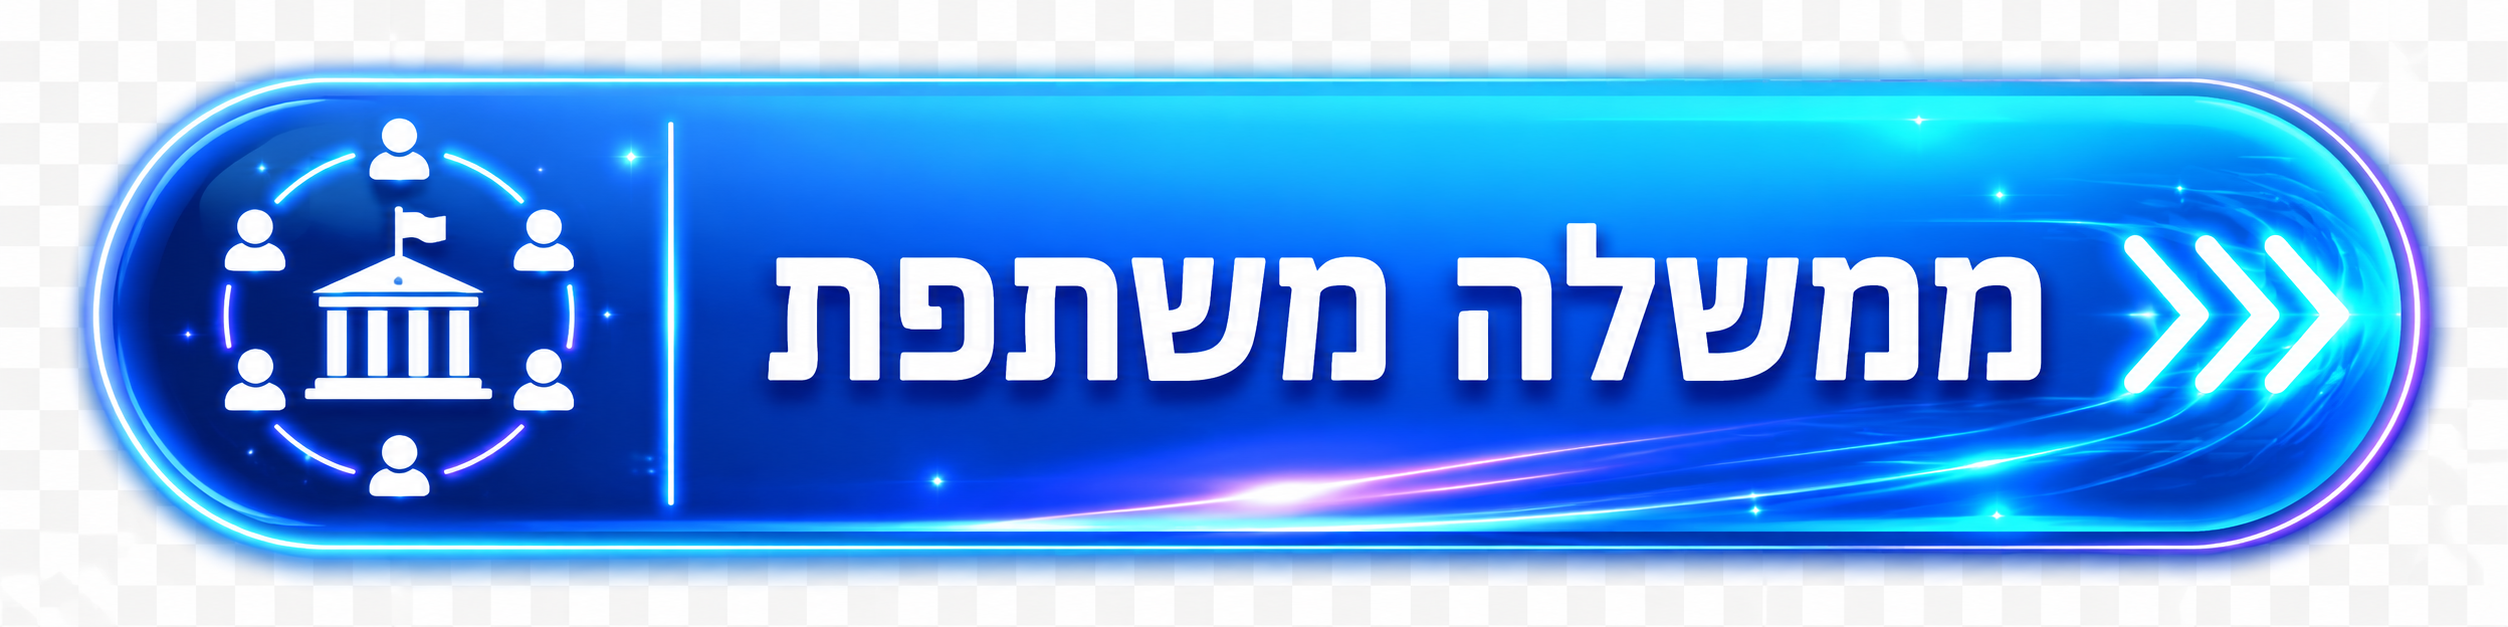
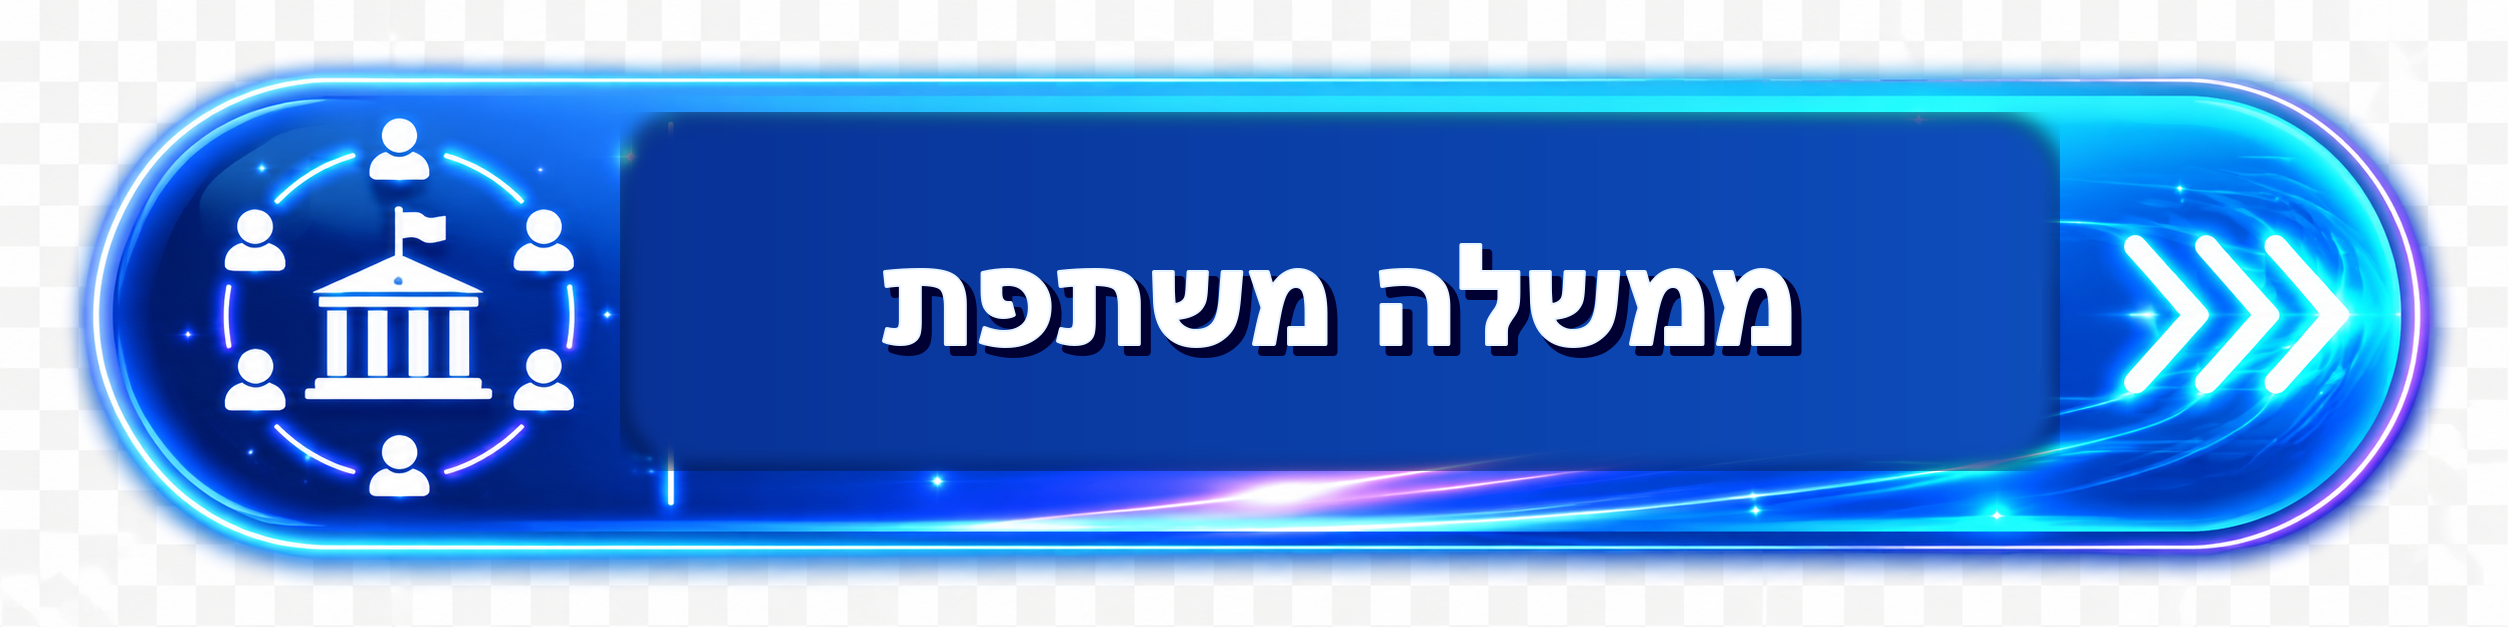
Refine home headline and card typography

Changed region(s): [[0.2488, 0.1515, 0.8397, 0.7576]]

diff --git a/client/src/pages/Home.tsx b/client/src/pages/Home.tsx
@@ -492,9 +492,9 @@ ${candidateSenderEmail.trim()}`
           <section className="container flex min-h-[calc(100vh-4rem)] flex-col justify-center gap-8 py-10">
             <div className="mx-auto max-w-4xl text-center">
               <h1 className="text-5xl font-black leading-tight text-[#14213d] sm:text-7xl">
-                הציבור לא רק בוחר
+                הציבור לא רק בוחר,
                 <br />
-                הוא משתתף
+                הוא משתתף!
               </h1>
               <p className="mx-auto mt-6 max-w-3xl text-xl font-semibold leading-9 text-[#52627a]">
                 קול משותף מחבר אזרחים לכנסת ולממשלה בין בחירות: הצעות חוק, שאילתות, הצבעות והאצלת קול.